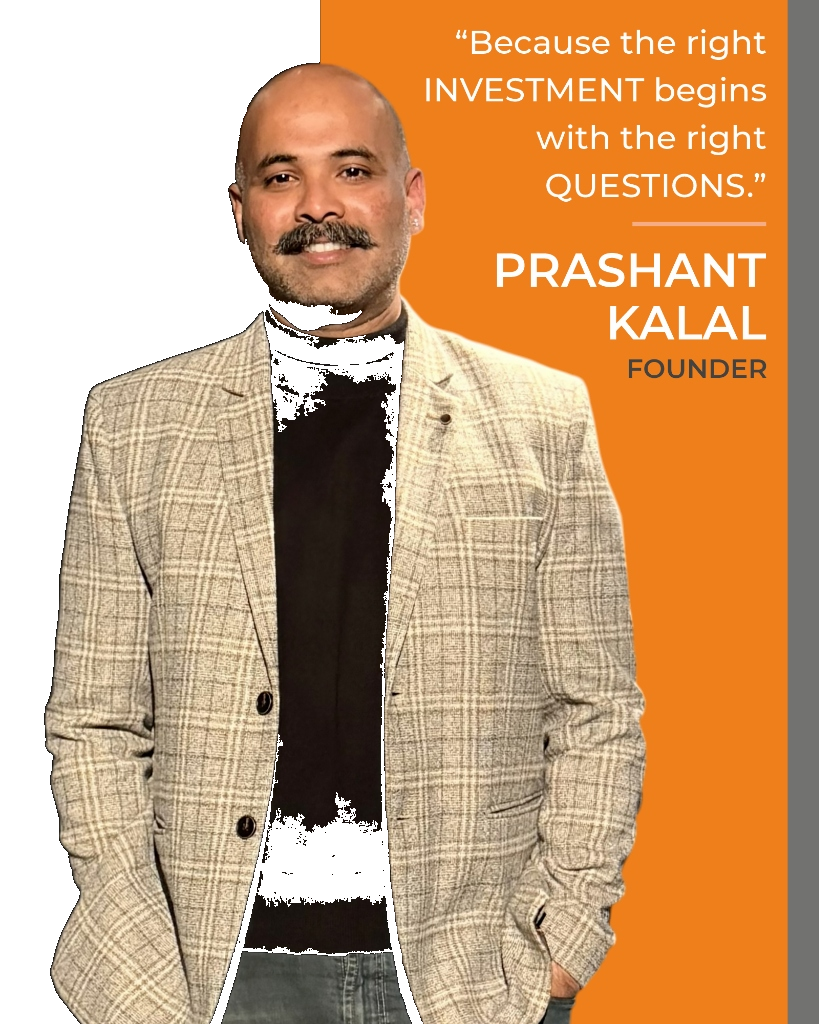
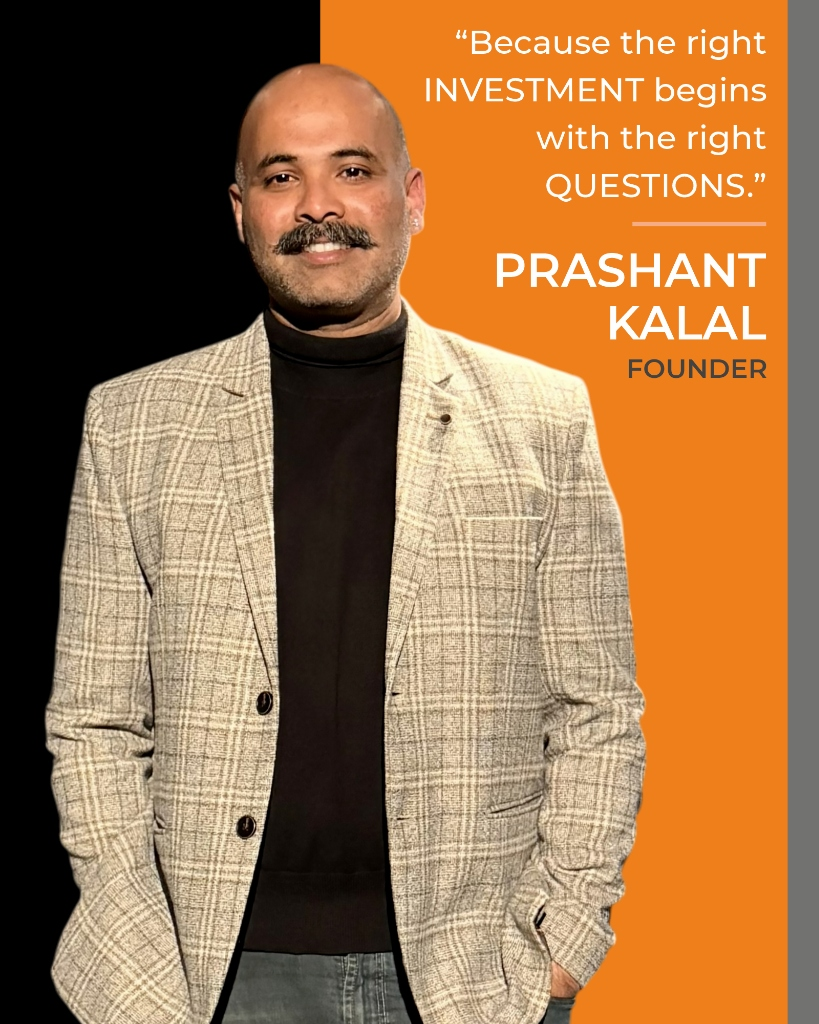
Use original untouched image for Meet Prashant section

diff --git a/src/components/About.tsx b/src/components/About.tsx
@@ -39,7 +39,7 @@ export function About() {
         >
           <div className="split-photo-frame">
             <img
-              src="/founder-pk.png?v=12"
+              src="/founder-pk.png?v=13"
               alt="Prashant Kalal"
               className="max-h-[26rem] w-auto max-w-full object-contain"
               width={819}
